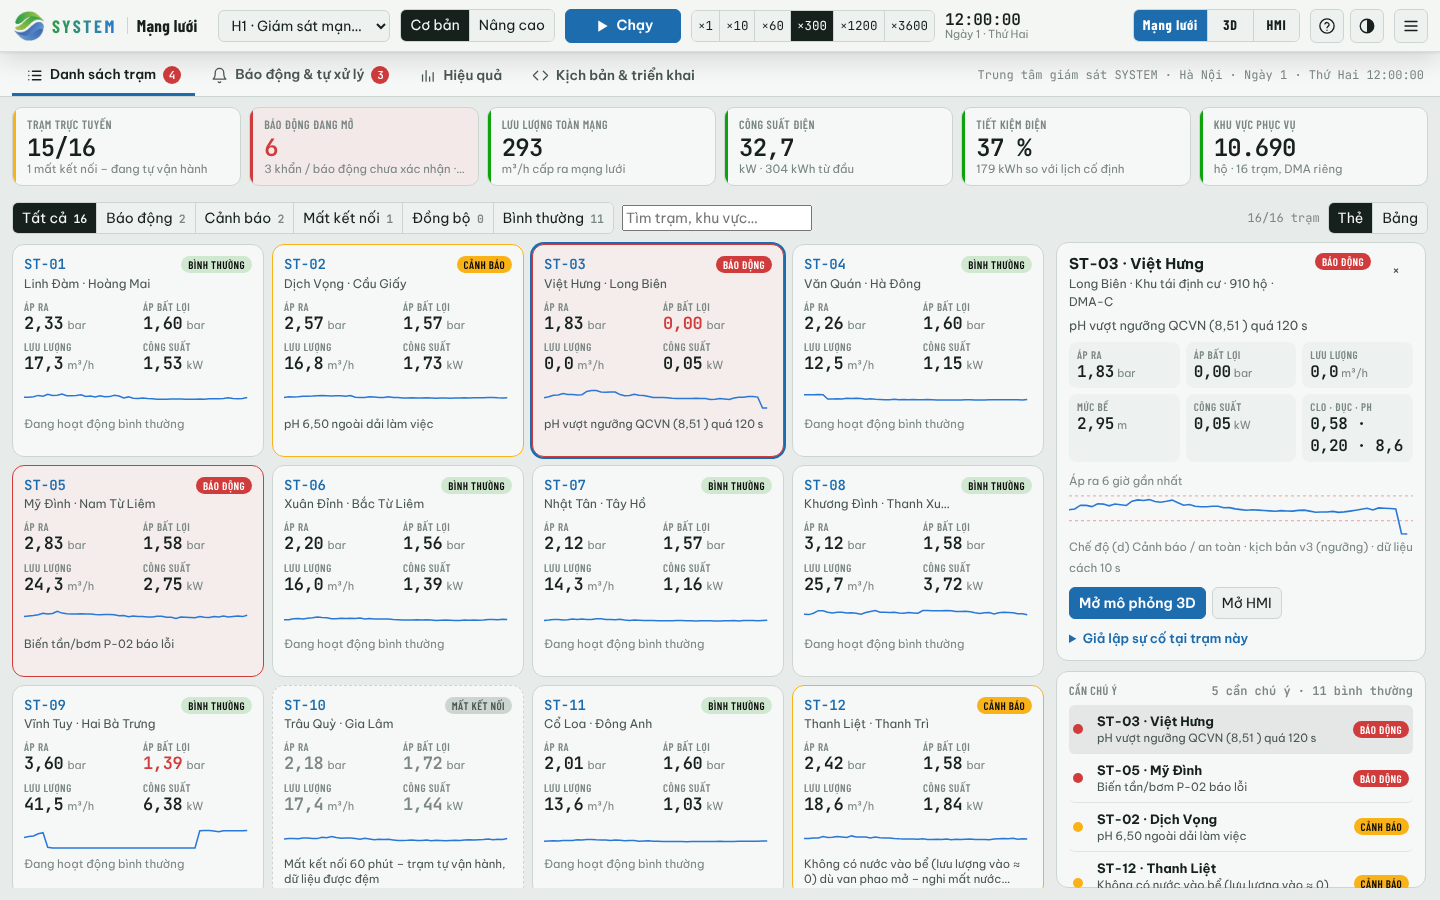
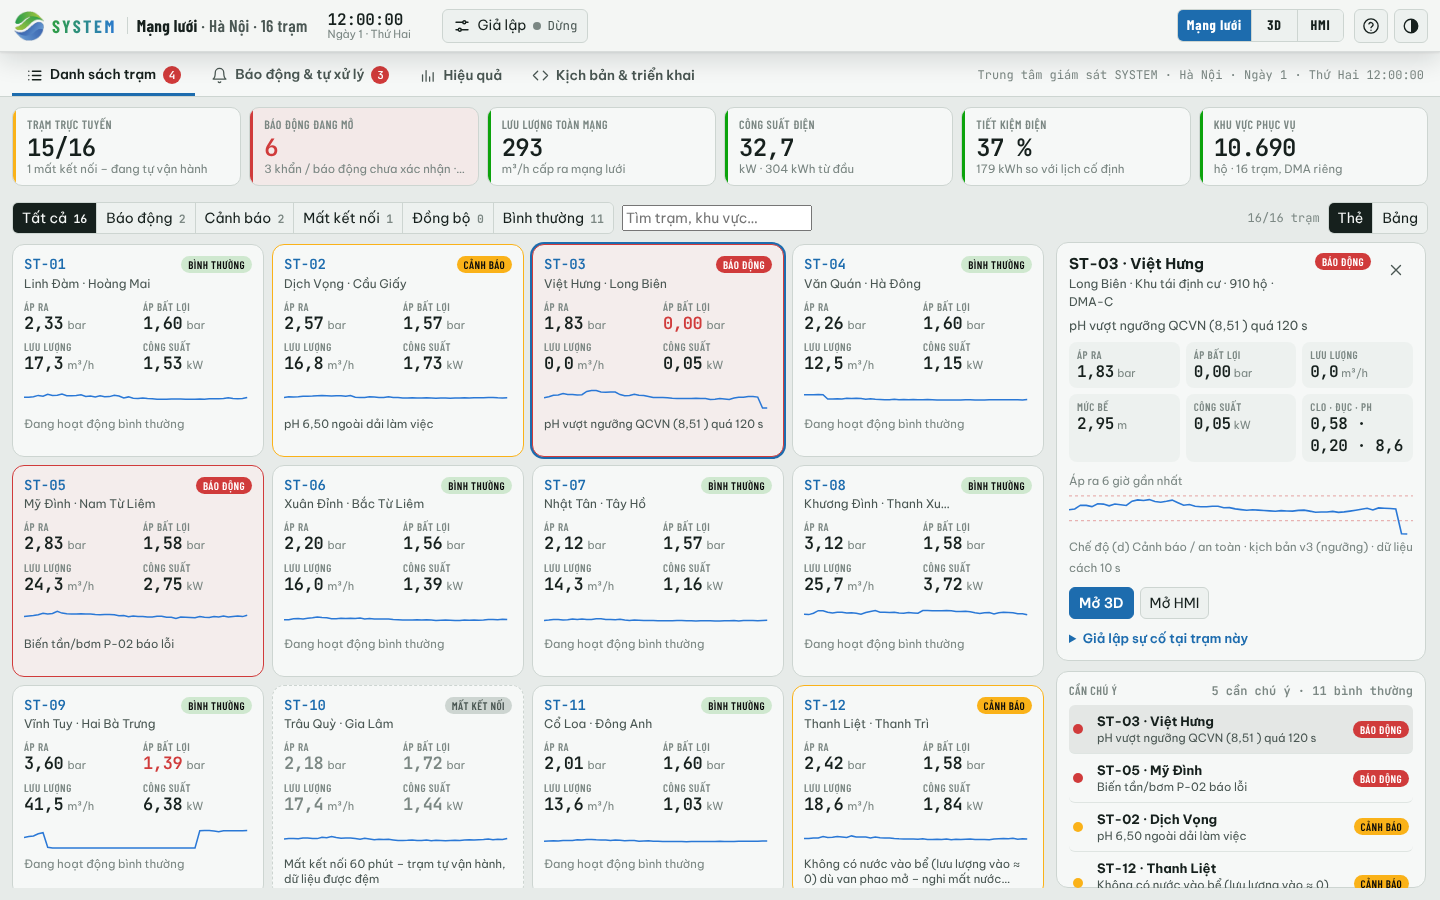
Thanh trên: gom điều khiển giả lập vào cửa sổ "Giả lập", dùng biểu tượng SVG
Theo bình luận trên artifact: phần giả lập không hiện thẳng trên thanh trên.
- Kịch bản, mức độ, Chạy / Tạm dừng, +1 giờ, Chạy lại và tốc độ nằm trong
  một cửa sổ bật lên mở bằng nút "Giả lập"; nút luôn cho biết đang chạy
  (chấm sáng + tốc độ) hay dừng. Thanh trên chỉ còn logo, đồng hồ, chế độ,
  Mạng lưới | 3D | HMI, hướng dẫn, giao diện.
- Mỗi mục trong cửa sổ có biểu tượng riêng (bình thí nghiệm, lớp, chạy,
  đồng hồ bấm giờ); nút chuyển trạm và nút đóng thẻ trạm dùng biểu tượng
  thay cho ký tự ‹ › ×.
- Bỏ các bước thu gọn riêng cho nhóm giả lập (đã luôn nằm trong cửa sổ).
- Cập nhật README, docs/08 và ảnh minh họa.

Claude-Session: https://claude.ai/code/session_012KVMfAW5Cudcy4NtcKEhfw

Changed region(s): [[0.1562, 0.0, 0.7188, 0.0622], [0.7812, 0.0, 0.9688, 0.0622], [0.75, 0.6533, 0.875, 0.6844]]

diff --git a/web/js/ui/shell.js b/web/js/ui/shell.js
@@ -36,6 +36,12 @@ const ICONS = {
   drop: '<path d="M12 2.5c3.6 4.4 6.5 7.9 6.5 11.6a6.5 6.5 0 0 1-13 0C5.5 10.4 8.4 6.9 12 2.5z"/>',
   cabinet: '<rect x="5" y="2.5" width="14" height="19" rx="1.5"/><path d="M12 2.5v19M9.5 11v2M14.5 11v2"/>',
   city: '<path d="M3 21h18M5 21V8l5-3v16M10 21V10h5v11M15 21v-7h4v7"/>',
+  sliders: '<path d="M4 7h9M17 7h3M4 17h3M11 17h9"/><circle cx="15" cy="7" r="2"/><circle cx="9" cy="17" r="2"/>',
+  flask: '<path d="M9 3h6M10 3v6.2L4.6 18.4A2 2 0 0 0 6.3 21.5h11.4a2 2 0 0 0 1.7-3.1L14 9.2V3"/><path d="M7.6 15h8.8"/>',
+  layers: '<path d="m12 3 9 5-9 5-9-5z"/><path d="m3 12.5 9 5 9-5M3 17l9 5 9-5"/>',
+  timer: '<circle cx="12" cy="13.5" r="7.5"/><path d="M12 9.5v4l2.5 1.5M9.5 2.5h5"/>',
+  chevL: '<path d="m15 6-6 6 6 6"/>',
+  chevR: '<path d="m9 6 6 6-6 6"/>',
 };
 /** Biểu tượng SVG nét mảnh (viewBox 24). */
 export function ico(k, cls = 'ico') {
@@ -108,6 +114,13 @@ export class Shell {
     $('btn-reset').setAttribute('aria-label', 'Chạy lại');
     $('btn-guide').append(ico('help'), h('span', { class: 'bt' }, 'Hướng dẫn'));
     $('btn-guide').setAttribute('aria-label', 'Hướng dẫn');
+    $('st-prev').replaceChildren(ico('chevL')); $('st-next').replaceChildren(ico('chevR'));
+    // cửa sổ "Giả lập": kịch bản, mức độ, chạy / tạm dừng, tốc độ – chỉ mở khi cần; nút trên thanh trên luôn cho biết đang chạy hay dừng
+    for (const [id, icon] of [['tg-sc', 'flask'], ['tg-lvl', 'layers'], ['tg-run', 'play'], ['tg-speed', 'timer']]) $(id).querySelector('.gl').prepend(ico(icon, 'ico ico-s'));
+    this.popSim = $('pop-sim'); this.simBtn = $('btn-sim');
+    this.simDot = h('i', { class: 'live' }); this.simVal = h('span', { class: 'sim-v' }, 'Dừng');
+    this.simBtn.append(ico('sliders'), h('span', { class: 'sim-t' }, 'Giả lập'), h('span', { class: 'sim-st' }, this.simDot, this.simVal));
+    this.simBtn.addEventListener('click', (e) => this.togglePop(this.popSim, this.simBtn, e));
     this.menuBtn = $('btn-menu');
     this.menuBtn.append(ico('menu'));
     this.menuBtn.setAttribute('aria-label', 'Thêm điều khiển');
@@ -135,10 +148,9 @@ export class Shell {
     const $ = (id) => document.getElementById(id);
     const grp = (id, max) => { const el = $(id), ph = document.createComment(id); el.before(ph); return { el, ph, max, menu: true }; };
     const cls = (el, c, max) => ({ el, c, max });
-    // thứ tự thu gọn: nút +1 giờ / chạy lại và nút phụ vào menu trước; kịch bản, mức độ, tốc độ mô phỏng, ô chọn trạm giữ lại lâu nhất
-    this.steps = [cls($('modes'), 'compact', 1600), cls(this.top.querySelector('.brand-long'), 'tb-hide', 720), grp('tg-run', 900), grp('tg-misc', 900),
-      grp('tg-sc', 720), grp('tg-lvl', 900), grp('tg-speed', 900), grp('tg-st', 720), grp('tg-modes', 720)];
-    const order = ['tg-st', 'tg-sc', 'tg-lvl', 'tg-run', 'tg-speed', 'tg-modes', 'tg-misc'];
+    // thứ tự thu gọn: nút phụ vào menu trước; ô chọn trạm và chế độ gateway giữ lại lâu hơn (điều khiển giả lập đã nằm sẵn trong cửa sổ "Giả lập")
+    this.steps = [cls($('modes'), 'compact', 1600), cls(this.top.querySelector('.brand-long'), 'tb-hide', 720), grp('tg-misc', 900), grp('tg-st', 720), grp('tg-modes', 720)];
+    const order = ['tg-st', 'tg-modes', 'tg-misc'];
     const apply = () => {
       for (const s of this.steps) {
         if (!s.menu) { s.el.classList.toggle(s.c, s.on); continue; }
@@ -184,8 +196,17 @@ export class Shell {
     if (btn._run === running) return;
     btn._run = running;
     btn.replaceChildren(ico(running ? 'pause' : 'play'), h('span', { class: 'bt-play' }, running ? 'Tạm dừng' : 'Chạy'));
-    btn.setAttribute('aria-label', running ? 'Tạm dừng mô phỏng' : 'Chạy mô phỏng');
+    btn.setAttribute('aria-label', running ? 'Tạm dừng giả lập' : 'Chạy giả lập');
     btn.classList.toggle('running', running);
+  }
+  /** Trạng thái trên nút "Giả lập": chấm sáng + tốc độ khi đang chạy, "Dừng" khi tạm dừng. */
+  setSim(running, speed) {
+    const k = running ? '×' + speed : 'Dừng';
+    if (this.simBtn._k === k) return;
+    this.simBtn._k = k;
+    this.simDot.classList.toggle('on', running);
+    T(this.simVal, k);
+    this.simBtn.setAttribute('aria-label', running ? `Giả lập: đang chạy ×${speed}` : 'Giả lập: đang tạm dừng');
   }
   setTheme(btn, kind, label) {
     btn.replaceChildren(ico({ '': 'auto', light: 'sun', dark: 'moon' }[kind]), h('span', { class: 'bt' }, label));
@@ -644,9 +665,12 @@ export class Shell {
   _placePop() {
     const { el, btn } = this.pop, s = el.style;
     s.left = s.right = s.top = s.bottom = '';
-    if (el === this.menu) {
+    if (el === this.menu || el === this.popSim) {
       s.top = (this.top.getBoundingClientRect().bottom + 6) + 'px';
-      if (!this.mqMobile.matches) s.right = Math.max(8, innerWidth - btn.getBoundingClientRect().right) + 'px';
+      if (this.mqMobile.matches) return;
+      const br = btn.getBoundingClientRect();
+      if (el === this.popSim) s.left = Math.max(8, Math.min(br.left, innerWidth - el.offsetWidth - 8)) + 'px';
+      else s.right = Math.max(8, innerWidth - br.right) + 'px';
       return;
     }
     const r = btn.getBoundingClientRect(), d = this.dockEl.getBoundingClientRect();

diff --git a/web/index.html b/web/index.html
@@ -32,14 +32,8 @@
     <h1><b id="brand-st">ST-01</b><span class="brand-long" id="brand-long"> · Trạm bơm tăng áp</span></h1>
   </button>
   <div class="tb-grp" id="tg-st"><span class="lbl gl m">Trạm đang xem</span><button class="btn icon" id="st-prev" aria-label="Trạm trước" title="Trạm trước">‹</button><select id="st-select" aria-label="Chọn trạm" title="Chọn trạm để xem chi tiết"></select><button class="btn icon" id="st-next" aria-label="Trạm sau" title="Trạm sau">›</button></div>
-  <div class="tb-grp" id="tg-sc"><label class="lbl gl m" for="sc-select">Kịch bản</label><select id="sc-select" aria-label="Kịch bản" title="Chọn kịch bản thí nghiệm"></select></div>
-  <div class="tb-grp" id="tg-lvl"><span class="lbl gl m">Mức độ kịch bản điều khiển</span><div class="seg" id="lvl-seg" role="group" aria-label="Mức độ kịch bản điều khiển"><button data-lvl="basic" title="Điều khiển theo ngưỡng">Cơ bản</button><button data-lvl="advanced" title="Điều khiển dự báo">Nâng cao</button></div></div>
-  <div class="tb-run">
-    <button class="btn primary" id="btn-play"></button>
-    <div class="tb-grp" id="tg-run"><span class="lbl gl m">Mô phỏng</span><button class="btn" id="btn-skip" title="Chạy nhanh thêm 1 giờ mô phỏng"></button><button class="btn" id="btn-reset" title="Chạy lại kịch bản từ đầu"></button></div>
-  </div>
-  <div class="tb-grp" id="tg-speed" title="Tốc độ mô phỏng"><span class="lbl gl m">Tốc độ mô phỏng</span><div class="seg" id="speed-seg" role="group" aria-label="Tốc độ mô phỏng"></div><span class="note" id="speed-real"></span></div>
-  <div class="clock" id="clock" aria-live="off" title="Thời gian mô phỏng"><b id="clock-t">–</b><span id="clock-d"></span></div>
+  <div class="clock" id="clock" aria-live="off" title="Thời gian giả lập"><b id="clock-t">–</b><span id="clock-d"></span></div>
+  <button class="btn sim-btn" id="btn-sim" type="button" aria-haspopup="dialog" aria-expanded="false" aria-controls="pop-sim" title="Giả lập: kịch bản, chạy / tạm dừng, tốc độ"></button>
   <div class="tb-grp" id="tg-modes"><span class="lbl gl m">Chế độ gateway</span>
     <div class="modes" id="modes" aria-label="Chế độ vận hành của gateway">
       <span class="mode m-a" data-m="a" title="(a) Bình thường – có kết nối máy chủ">(a)<span class="mn"> Bình thường</span></span><span class="mode m-b" data-m="b" title="(b) Mất mạng – gateway tự vận hành bằng kịch bản đã lưu">(b)<span class="mn"> Tự vận hành</span></span><span class="mode m-c" data-m="c" title="(c) Đồng bộ sau khi khôi phục kết nối">(c)<span class="mn"> Đồng bộ</span></span><span class="mode m-d" data-m="d" title="(d) Cảnh báo / dừng an toàn">(d)<span class="mn"> Cảnh báo<span class="mn2"> / an toàn</span></span></span><span class="mode m-x" data-m="x" title="Mini PC (edge gateway) ngừng – biến tần tự chạy PID nội">Mini PC lỗi</span>
@@ -50,7 +44,20 @@
   <div class="tb-grp" id="tg-misc"><span class="lbl gl m">Khác</span><button class="btn icon" id="btn-guide" title="Hướng dẫn: sơ đồ khối, bảng ngưỡng, chọn kịch bản"></button><button class="btn icon" id="btn-theme"></button></div>
   <button class="btn icon" id="btn-menu" aria-haspopup="true" aria-expanded="false" aria-controls="menu" title="Thêm điều khiển"></button>
 </header>
-<div class="pop menu glass" id="menu" hidden role="dialog" aria-label="Điều khiển mô phỏng"></div>
+<div class="pop menu glass" id="menu" hidden role="dialog" aria-label="Thêm điều khiển"></div>
+<div class="pop menu pop-sim glass" id="pop-sim" hidden role="dialog" aria-label="Giả lập">
+  <div class="pop-h">Giả lập</div>
+  <div class="menu-body">
+  <div class="tb-grp" id="tg-sc"><label class="lbl gl m" for="sc-select">Kịch bản</label><select id="sc-select" aria-label="Kịch bản" title="Chọn kịch bản thí nghiệm"></select></div>
+  <div class="tb-grp" id="tg-lvl"><span class="lbl gl m">Mức độ kịch bản điều khiển</span><div class="seg" id="lvl-seg" role="group" aria-label="Mức độ kịch bản điều khiển"><button data-lvl="basic" title="Điều khiển theo ngưỡng">Cơ bản</button><button data-lvl="advanced" title="Điều khiển dự báo">Nâng cao</button></div></div>
+  <div class="tb-run" id="tg-run"><span class="lbl gl m">Chạy</span>
+    <button class="btn primary" id="btn-play"></button>
+    <button class="btn" id="btn-skip" title="Chạy nhanh thêm 1 giờ giả lập"></button>
+    <button class="btn" id="btn-reset" title="Chạy lại kịch bản từ đầu"></button>
+  </div>
+  <div class="tb-grp" id="tg-speed" title="Tốc độ giả lập"><span class="lbl gl m">Tốc độ</span><div class="seg" id="speed-seg" role="group" aria-label="Tốc độ giả lập"></div><span class="note" id="speed-real"></span></div>
+  </div>
+</div>
 
 <div class="banner" id="banner" hidden role="status"></div>
 <div class="hud" id="hud" aria-label="Chỉ số vận hành chính"></div>

diff --git a/web/css/app.css b/web/css/app.css
@@ -152,7 +152,7 @@ body.view-fleet .hud, body.view-fleet .dock, body.view-fleet .side, body.view-fl
 .topbar .gl.m, .topbar .bt { display: none; }
 .topbar .btn { min-height: 34px; }
 #sc-select { width: clamp(130px, 12vw, 260px); text-overflow: ellipsis; }
-#btn-play { width: 116px; justify-content: center; } /* bề rộng cố định: Chạy ↔ Tạm dừng không làm thanh trên xếp lại */
+#btn-play { min-width: 116px; justify-content: center; } /* bề rộng cố định: Chạy ↔ Tạm dừng không làm nút đổi cỡ */
 #btn-play.running { background: var(--surface-2); color: var(--ink); border-color: var(--line); }
 #btn-play.running:hover { border-color: var(--ink-2); }
 #speed-seg button { padding: 5px 6px; font: 500 12.5px var(--f-mono); }
@@ -210,6 +210,17 @@ body.view-hmi .topbar .btn.icon { width: 30px; }
 .menu .modes.compact .mode:not(.on):not(.m-x) { display: inline-block; }
 .btn.icon.on { background: var(--ink); color: var(--surface); border-color: var(--ink); }
 .menu .modes { gap: 4px; }
+/* nút mở cửa sổ "Giả lập" trên thanh trên: biểu tượng + chữ + chấm trạng thái (sáng khi đang chạy) và tốc độ; hẹp thì chỉ còn biểu tượng và chấm */
+.sim-btn { gap: 7px; padding-inline: 10px; }
+.sim-btn .sim-st { display: inline-flex; align-items: center; gap: 6px; }
+.sim-v { min-width: 3.4ch; font: 500 12.5px var(--f-mono); font-variant-numeric: tabular-nums; color: var(--ink-2); }
+.sim-btn.on .sim-v { color: inherit; }
+/* cửa sổ "Giả lập": mỗi mục có biểu tượng riêng; Chạy / +1 giờ / Chạy lại thành một hàng */
+.ico-s { width: 14px; height: 14px; margin-right: 6px; flex: none; }
+.pop-sim .gl { display: flex; align-items: center; }
+.pop-sim .tb-run { display: grid; grid-template-columns: minmax(0, 1fr) auto auto; gap: 6px; align-items: center; }
+.pop-sim .tb-run .gl { grid-column: 1 / -1; }
+.pop-sim #btn-play { width: 100%; }
 .cam-grid { display: grid; grid-template-columns: 1fr 1fr; gap: 6px; }
 .cam-btn { display: grid; grid-template-columns: auto minmax(0, 1fr); grid-template-rows: auto auto; column-gap: 8px; align-items: center; text-align: left; padding: 8px 10px; border-radius: 10px;
   border: 1px solid var(--line); background: var(--surface); cursor: pointer; min-height: 52px; }
@@ -592,8 +603,7 @@ textarea.code { width: 100%; min-height: 260px; font: 12px/1.45 var(--f-mono); b
   body.view-fleet .brand h1 { display: none; } body:not(.view-fleet) .brand-co { display: none; }
   .brand h1 { padding-left: 0; border-left: 0; }
   .brand h1 { font-size: 18px; }
-  #btn-play { min-width: 0; width: 38px; padding: 0; }
-  .bt-play { display: none; }
+  .sim-btn { padding-inline: 8px; gap: 5px; } .sim-t, .sim-v { display: none; }
   .clock { width: auto; min-width: 0; }
   .clock b { font-size: 14.5px; }
   .clock span { font-size: 10px; }

diff --git a/web/js/ui/fleet-detail.js b/web/js/ui/fleet-detail.js
@@ -3,6 +3,7 @@
 import { FLEET_STATUS } from '../sim/fleet.js';
 import { h, fmt } from './dom.js';
 import { MODE_NAME, viNum } from './ops.js';
+import { ico } from './shell.js';
 
 const NS = 'http://www.w3.org/2000/svg';
 const S = (tag, attrs = {}, ...kids) => {
@@ -69,7 +70,7 @@ export class StationPanel {
       const hrs = (x) => a.net.t / 3600 + x;
       this.cardSpark = S('svg', { class: 'fd-spark', viewBox: '0 0 240 44', preserveAspectRatio: 'none', 'aria-hidden': 'true' }, S('line', { x1: 0, x2: 240, class: 'lo' }), S('line', { x1: 0, x2: 240, class: 'hi' }), S('polyline', { class: 'ln' }));
       this.cardHead = h('div', { class: 'fd-ch' }, h('div', {}, h('b', {}, `${r.sid} · ${s.area}`), h('small', {}, `${s.district} · ${s.kind} · ${s.households} hộ · ${s.zone}`)), this.cardChip = h('span', { class: 'chip' }),
-        h('button', { class: 'xbtn', type: 'button', 'aria-label': 'Bỏ chọn', onclick: () => f.select(null) }, '×'));
+        h('button', { class: 'xbtn', type: 'button', 'aria-label': 'Bỏ chọn', onclick: () => f.select(null) }, ico('x')));
       this.cardWhy = h('p', { class: 'fd-why' });
       c.replaceChildren(this.cardHead, this.cardWhy,
         h('div', { class: 'fd-mg' }, V('p', 'Áp ra', 'bar'), V('pc', 'Áp bất lợi', 'bar'), V('q', 'Lưu lượng', 'm³/h'), V('lv', 'Mức bể', 'm'), V('kw', 'Công suất', 'kW'), V('wq', 'Clo · đục · pH')),

diff --git a/web/js/main.js b/web/js/main.js
@@ -308,7 +308,7 @@ class App {
     return { sid: this.st.sid, plant: this.st.plant, sig: g.sig, installed: g.sig_proc.installed, mode: this.st.gw_dead ? 'x' : g.mode(), ctl: this.st.gw_dead ? 'auto' : g.controlSrc(), comms: g.comms.state, p_set: g.ctrl.p_set, version: g.script.version, strategy: g.ctrl.strategy_used, buffer: g.comms.buf.length };
   }
   _syncHeader() {
-    this.shell.setPlay(this.playBtn, this.running);
+    this.shell.setPlay(this.playBtn, this.running); this.shell.setSim(this.running, this.speed);
     document.querySelectorAll('#speed-seg button').forEach((b) => b.classList.toggle('on', +b.dataset.v === this.speed));
     document.querySelectorAll('#lvl-seg button').forEach((b) => b.classList.toggle('on', b.dataset.lvl === this.level));
     if (!this.st) return;

diff --git a/README.md b/README.md
@@ -61,7 +61,7 @@ Cách dùng giao diện:
 |---|---|
 | Xem toàn mạng, chọn một trạm | Màn **Mạng lưới**: nhấp thẻ (hoặc dòng trong bảng; nút **Thẻ \| Bảng** đổi kiểu xem), **Mở 3D** / **Mở HMI** |
 | Đổi trạm khi đang xem chi tiết | Ô chọn trạm và nút ‹ › trên thanh trên cùng |
-| Chạy, tạm dừng, tua nhanh, đổi kịch bản | Thanh trên cùng (màn hình hẹp: nút ☰) |
+| Chạy, tạm dừng, tua nhanh, đổi tốc độ, đổi kịch bản | Nút **Giả lập** trên thanh trên cùng: cửa sổ bật lên gồm kịch bản, mức độ, Chạy / Tạm dừng, +1 giờ, Chạy lại, tốc độ (nút cho biết đang chạy hay dừng) |
 | Xem biểu đồ, so sánh với lịch cố định | Nút **Biểu đồ** / **So sánh** trên thanh chức năng (tấm trượt từ dưới lên, cỡ S/M/L); bấm một thẻ chỉ số để mở đúng biểu đồ đó |
 | Điều khiển bơm, van trong 3D | Bấm vào bơm/van (hoặc nút **Điều khiển TAY**) → bảng điều khiển nổi; ở TỰ ĐỘNG các nút lệnh bị khóa cho tới khi chuyển TAY |
 | Xem thông số một thiết bị bất kỳ | Bấm vào thiết bị trong 3D hoặc trong mục **Thiết bị** |

diff --git a/docs/08-mang-luoi-ha-noi.md b/docs/08-mang-luoi-ha-noi.md
@@ -21,7 +21,7 @@ HMI y như bản một trạm.
 | Đổi trạm khi đang xem chi tiết | Ô chọn trạm và hai nút ‹ › trên thanh trên |
 | Gây sự cố để xem hệ thống phản ứng | Chọn một thẻ → **Giả lập sự cố tại trạm này** ở cột phải, hoặc mục **Sự cố** ở màn chi tiết |
 
-Tốc độ mặc định ×300 (1 giờ mô phỏng ≈ 12 giây) để thấy hết kịch bản sự cố trong vài phút; chỉnh bằng dải ×1…×3600 trên thanh trên.
+Tốc độ mặc định ×300 (1 giờ mô phỏng ≈ 12 giây) để thấy hết kịch bản sự cố trong vài phút; chỉnh bằng dải ×1…×3600 trong cửa sổ **Giả lập** (nút trên thanh trên, cùng chỗ với Chạy / Tạm dừng, +1 giờ và chọn kịch bản).
 
 ## Bốn màn
 
